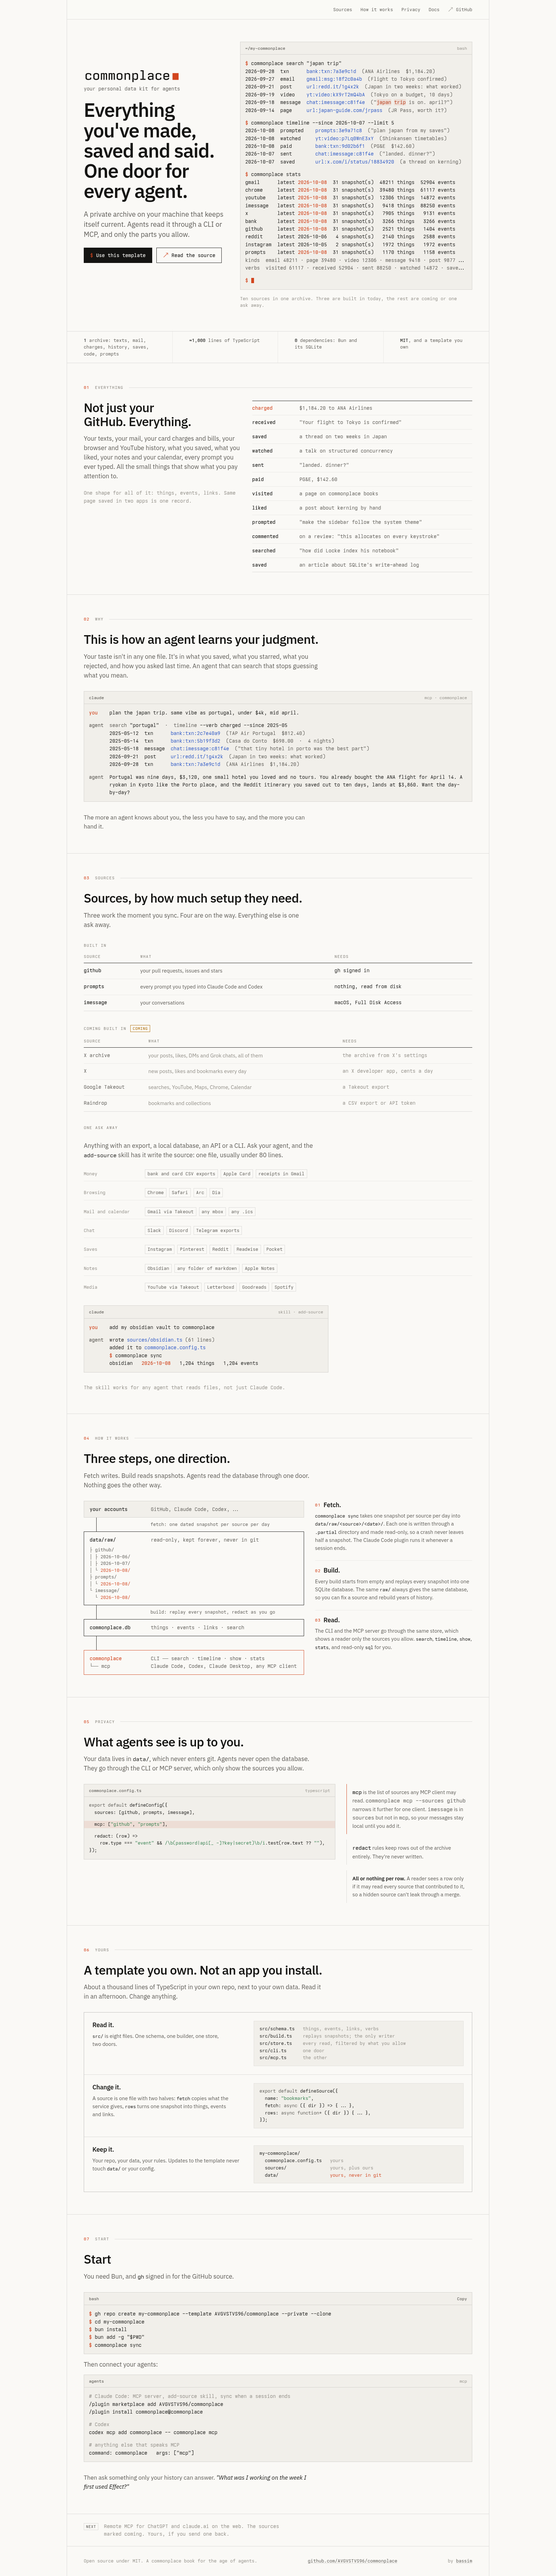
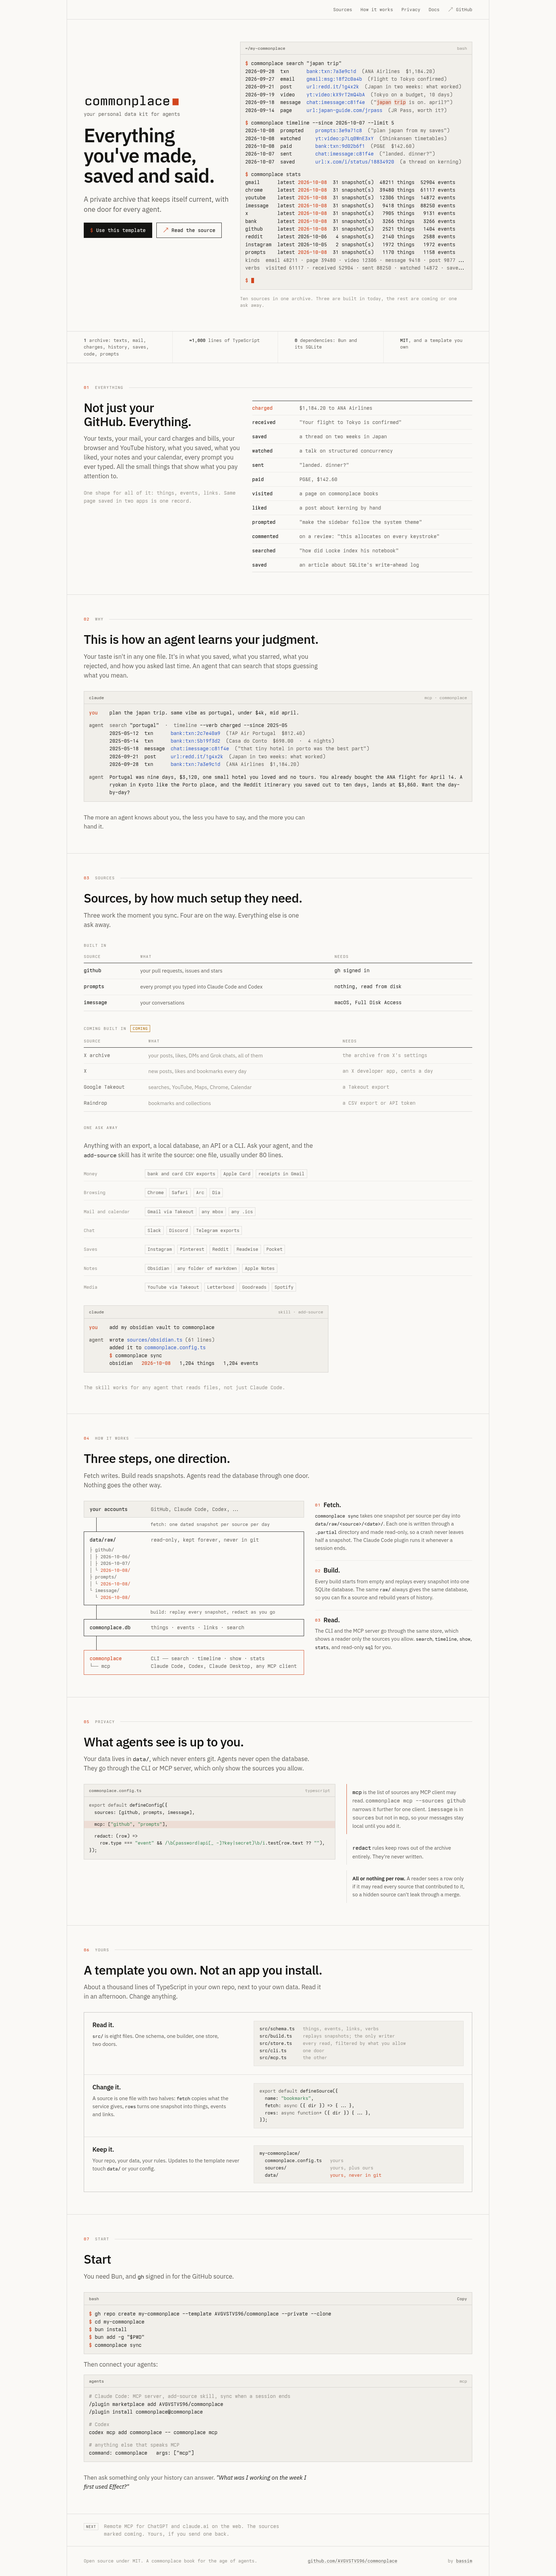
Site: the shorter hero, four lines beside the terminal, and the OG image to match

Changed region(s): [[0.1562, 0.0312, 0.375, 0.1248]]

diff --git a/site/index.html b/site/index.html
@@ -50,8 +50,8 @@
   <div class="hero-copy">
     <h1 class="mark"><svg role="img" aria-label="commonplace"><use href="#wordmark"/></svg></h1>
     <p class="tagline">your personal data kit for agents</p>
-    <p class="hero-line" id="hero-title">Everything you've made, saved and said. One door for every agent.</p>
-    <p class="lede">A private archive on your machine that keeps itself current. Agents read it through a CLI or MCP, and only the parts you allow.</p>
+    <p class="hero-line" id="hero-title">Everything you've made, saved and said.</p>
+    <p class="lede">A private archive that keeps itself current, with one door for every agent.</p>
     <div class="actions">
       <a class="btn" href="https://github.com/new?template_name=commonplace&template_owner=AVGVSTVS96"><span class="k">$</span>Use this template</a>
       <a class="btn ghost" href="https://github.com/AVGVSTVS96/commonplace"><span class="k">↗</span>Read the source</a>

diff --git a/site/og.html b/site/og.html
@@ -65,7 +65,7 @@
     <div class="top">
       <svg><use href="#wordmark" /></svg><span>your personal data kit for agents</span>
     </div>
-    <p class="line">Everything you've made, saved and said. One door for every agent.</p>
+    <p class="line">Everything you've made, saved and said.</p>
     <p class="prompt">
       <b>$</b> gh repo create my-commonplace --template AVGVSTVS96/commonplace --private<span
         class="cur"
